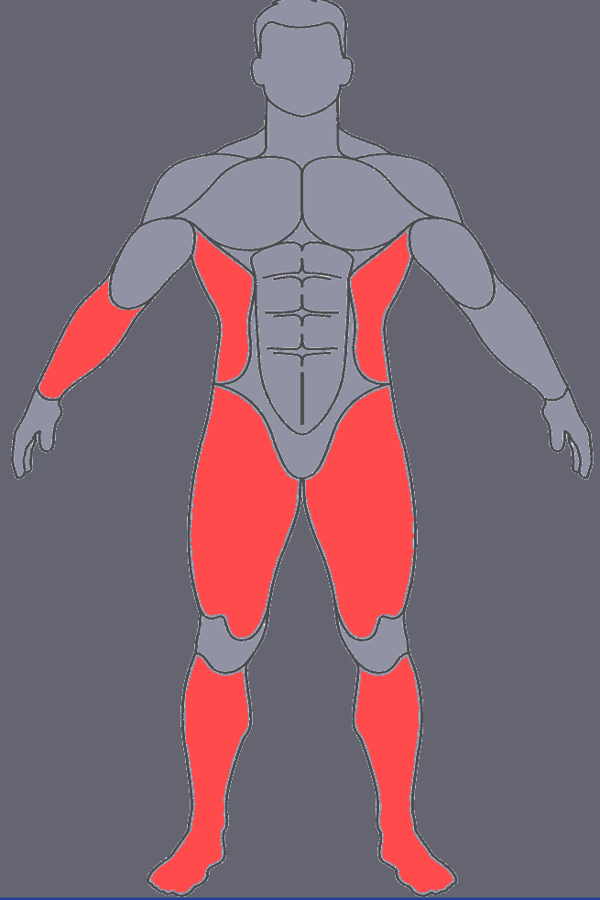
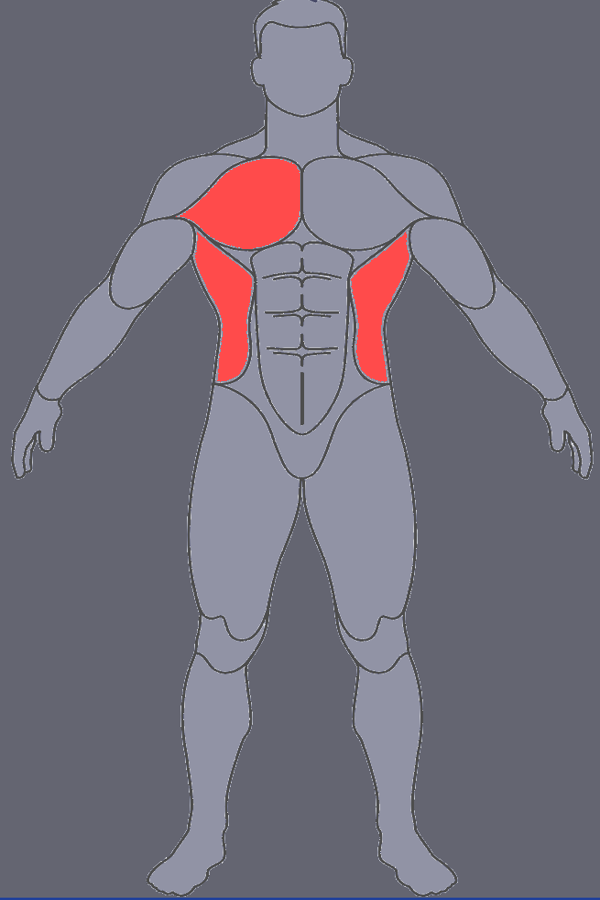
dynamic body.json

diff --git a/chatbot.py b/chatbot.py
@@ -28,13 +28,21 @@ async def generate_chat_analysis(user_input: str, json: str) -> str:
         "- Suggested actions or exercises.\n"
         "- Any necessary warnings or advice to seek medical attention if applicable.\n"
         "Create a JSON object with the following structure:\n"
-        "{\n 'pain points: [(names of the muscle groups)], 'pain level':[(pain level for each muscle group mapped by index)] ''"
-        "'exercises': [(exercise name)], 'warnings': [(warning message)] }\n 'actual query response': [(actual query response)] }\n}"
-        "Make sure to include the muscle groups in the response. "
+        "{\n"
+        "    \"muscle_group_name\": {\n"
+        "        \"pain_points\": [\"symptom1\", \"symptom2\", ...],\n"
+        "        \"pain_level\": \"number from 1-10\",\n"
+        "        \"warnings\": [\"warning1\", \"warning2\", ...],\n"
+        "        \"exercises\": [\"exercise1\", \"exercise2\", ...]\n"
+        "    },\n"
+        "    \"actual query response\": [\"your complete response to user in natural language\"]\n"
+        "}\n"
+        "Make sure to use the correct muscle group names as keys. "
         "The muscle groups are: right trap, right shoulder, right chest, right bicep, right forearm, "
         "right oblique, left trap, left shoulder, left chest, left bicep, left forearm, left oblique, "
         "abs, groin, right thigh, left thigh, right calf, left calf.\n"
-        "The pain level should be a number from 1 to 10, where 1 is no pain and 10 is extreme pain. "
+        "The pain level should be a number from 1 to 10 as a string, where 1 is minimal pain and 10 is extreme pain. "
+        "The pain_points should describe the specific symptoms (e.g., stiffness, soreness, sharp pain). "
         "The exercises should be specific to the muscle groups mentioned. "
         "The warnings should be clear and concise, indicating if the user should seek medical attention.\n"
         "Please provide a detailed and informative response."
@@ -67,9 +75,16 @@ def chatbot():
     json_path = "body.json"
     if os.path.exists(json_path):
         with open(json_path, "r") as f:
-            body_json = f.read()
+            try:
+                body_data = json.load(f)
+            except json.JSONDecodeError:
+                body_data = {}
     else:
-        body_json = "{}"
+        body_data = {}
+    
+    # Convert to string for passing to the LLM
+    body_json = json.dumps(body_data)
+    
     chatbox = st.container(height=800)
     prompt = st.text_input("Text Query:")
     if prompt:
@@ -77,8 +92,34 @@ def chatbot():
             st.markdown(prompt)
         with st.spinner("Analyzing your input..."):
             response = asyncio.run(generate_chat_analysis(prompt, body_json))
+            try:
+                response_json = json.loads(response)
+                
+                # Extract and handle "actual query response"
+                actual_response = response_json.pop("actual query response", ["No response found"])
+                if isinstance(actual_response, list):
+                    actual_response = "\n".join(actual_response)
+                
+                # Update existing JSON data with new info from response
+                for muscle_group, info in response_json.items():
+                    if muscle_group in body_data:
+                        # Update existing muscle group data
+                        body_data[muscle_group].update(info)
+                    else:
+                        # Add new muscle group data
+                        body_data[muscle_group] = info
+                
+                # Save the updated JSON to file
+                with open(json_path, "w") as f:
+                    json.dump(body_data, f, indent=2)
+                    
+            except Exception as e:
+                st.error(f"Error processing response: {e}")
+                actual_response = response  # fallback to raw response if not JSON
+                
         with chatbox.chat_message("assistant"):
-            st.markdown(response)
+            st.markdown(actual_response)
+    
     if st.button("Spoken Query 🎤"):
         prompt = get_audio_input()
         if prompt:
@@ -86,5 +127,30 @@ def chatbot():
                 st.markdown(prompt)
             with st.spinner("Analyzing your input..."):
                 response = asyncio.run(generate_chat_analysis(prompt, body_json))
+                try:
+                    response_json = json.loads(response)
+                    
+                    # Extract and handle "actual query response"
+                    actual_response = response_json.pop("actual query response", ["No response found"])
+                    if isinstance(actual_response, list):
+                        actual_response = "\n".join(actual_response)
+                    
+                    # Update existing JSON data with new info from response
+                    for muscle_group, info in response_json.items():
+                        if muscle_group in body_data:
+                            # Update existing muscle group data
+                            body_data[muscle_group].update(info)
+                        else:
+                            # Add new muscle group data
+                            body_data[muscle_group] = info
+                    
+                    # Save the updated JSON to file
+                    with open(json_path, "w") as f:
+                        json.dump(body_data, f, indent=2)
+                        
+                except Exception as e:
+                    st.error(f"Error processing response: {e}")
+                    actual_response = response
+                    
             with chatbox.chat_message("assistant"):
-                st.markdown(response)
+                st.markdown(actual_response)

diff --git a/body_diagram.py b/body_diagram.py
@@ -62,7 +62,8 @@ def render_body_diagram():
         # Find the body part name based on the clicked color
         hex_color = '%02x%02x%02x' % clicked_color[:3]
         body_part = MUSCLE_GROUPS.get(hex_color, "Unknown")
-
+        print("body data", body_data)
+        print("body part", body_part)
         if body_part in body_data:
             info = body_data[body_part]
             st.write(f"You clicked on: {body_part}")
@@ -72,3 +73,29 @@ def render_body_diagram():
             st.write(f"Exercises: {', '.join(info['exercises'])}")
         else:
             st.write("No data available for this body part.")
+
+        # Update JSON: set pain_level to '8' for this muscle
+        if body_part in MUSCLE_GROUPS:
+            muscle_name = MUSCLE_GROUPS[hex_color]
+            if muscle_name in body_data:
+                body_data[muscle_name]['pain_level'] = '8'
+            else:
+                body_data[muscle_name] = {
+                    'pain_points': [],
+                    'pain_level': '8',
+                    'warnings': [],
+                    'exercises': []
+                }
+            with open("body.json", "w") as f:
+                json.dump(body_data, f, indent=2)
+            # Toggle selection
+            if muscle_name in st.session_state.selected_muscles:
+                st.session_state.selected_muscles.remove(muscle_name)
+            else:
+                st.session_state.selected_muscles.add(muscle_name)
+            st.experimental_rerun()
+            st.write(f"You clicked on: **{muscle_name.title()}**")
+
+#function to return pain points from highleted image
+def get_pain_points_from_image():
+    pass
